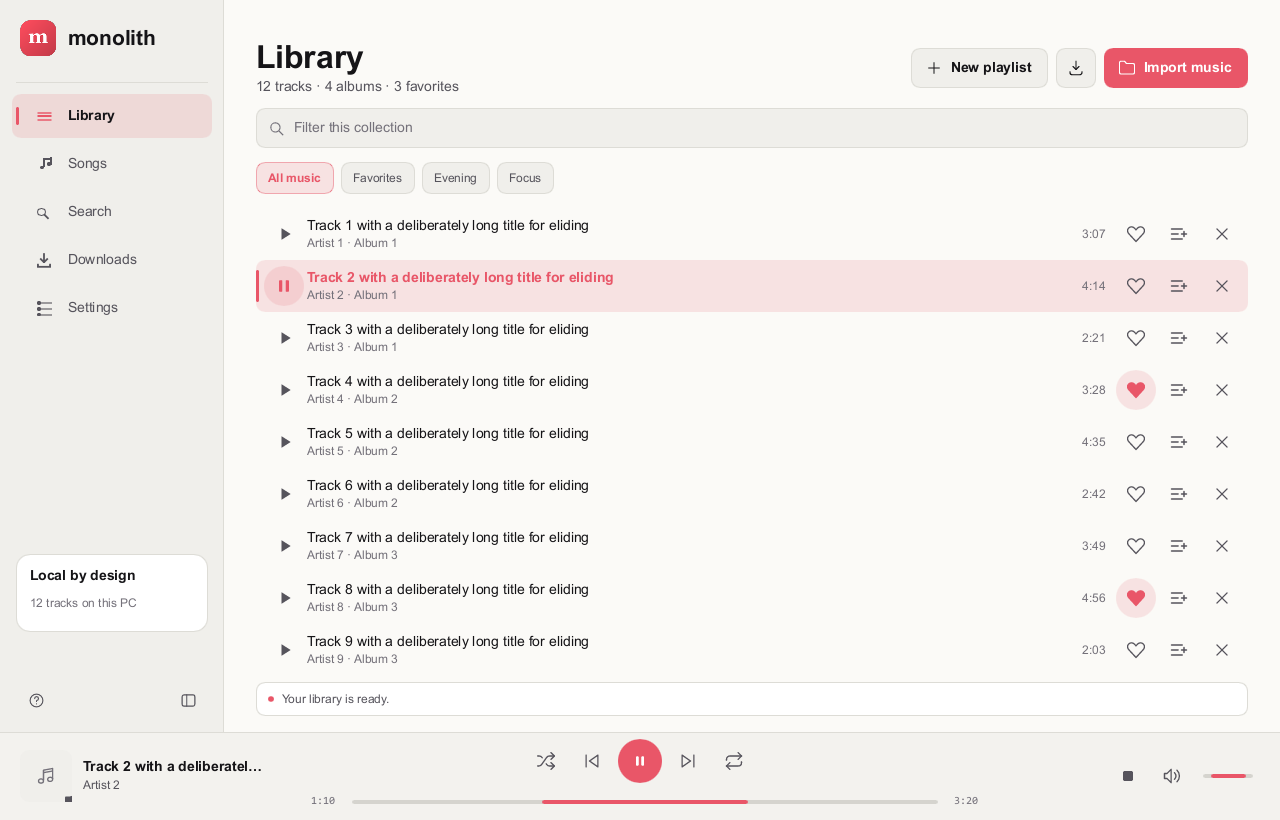
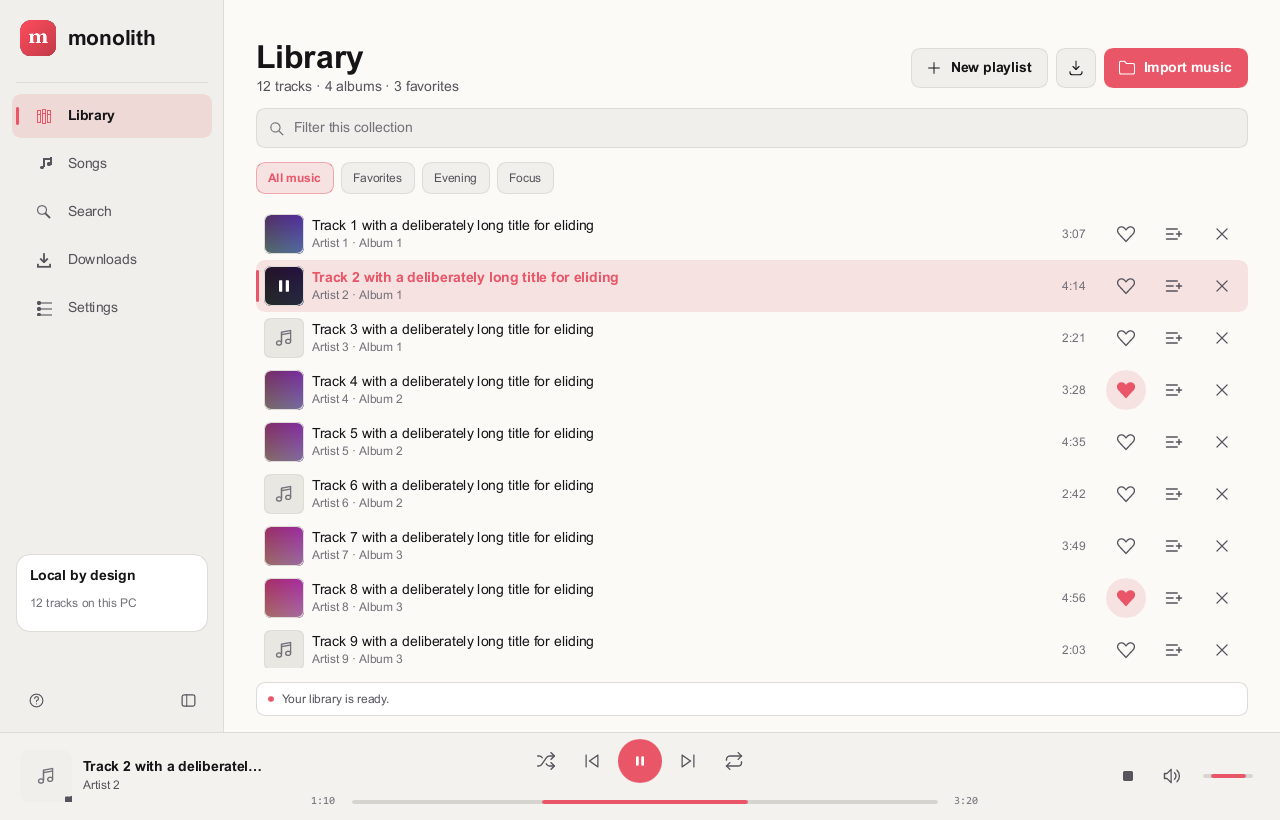
Show local song artwork and refine Library and Search navigation

diff --git a/src/controller.rs b/src/controller.rs
@@ -4,7 +4,7 @@ use monolith_desktop::{
     transfer,
 };
 use rodio::{Decoder, OutputStream, OutputStreamBuilder, Sink, Source};
-use slint::{ModelRc, VecModel};
+use slint::{Model, ModelRc, VecModel};
 use std::{
     hash::BuildHasher,
     path::PathBuf,
@@ -28,6 +28,7 @@ pub enum Command {
     /// 0 title, 1 artist, 2 album, 3 recently added.
     Sort(i32),
     Play(i64),
+    Thumbnail(i64),
     Toggle,
     Resume,
     Pause,
@@ -79,6 +80,7 @@ struct Worker {
     /// Decoded artwork, keyed by track id, most-recently-used last.
     art: std::collections::HashMap<i64, (Art, Art)>,
     art_order: std::collections::VecDeque<i64>,
+    thumbnails: std::collections::VecDeque<(i64, Option<Art>)>,
     queue: Vec<i64>,
     current: Option<i64>,
     position: f64,
@@ -94,10 +96,55 @@ struct Worker {
 const ART_CACHE_LIMIT: usize = 8;
 
 impl Worker {
+    /// Virtualized rows request 64px covers as they appear. Cache both hits and
+    /// misses; evict UI buffers too, so scrolling cannot accumulate decoded art.
+    fn thumbnail(&mut self, id: i64) {
+        if !self.visible.contains(&id) {
+            return;
+        }
+        let cached = self
+            .thumbnails
+            .iter()
+            .position(|(key, _)| *key == id)
+            .and_then(|index| self.thumbnails.remove(index));
+        let art = cached.map(|(_, art)| art).unwrap_or_else(|| {
+            let track = self.all.iter().find(|track| track.id == id)?;
+            row_cover(&track.path)
+        });
+        self.thumbnails.push_back((id, art.clone()));
+        let evicted = if self.thumbnails.len() > 128 {
+            self.thumbnails.pop_front().map(|(key, _)| key)
+        } else {
+            None
+        };
+        update(&self.ui, move |ui| {
+            let rows = ui.get_tracks();
+            for index in 0..rows.row_count() {
+                let Some(mut row) = rows.row_data(index) else {
+                    continue;
+                };
+                if Some(row.id as i64) == evicted {
+                    row.thumbnail = slint::Image::default();
+                    rows.set_row_data(index, row);
+                } else if row.id as i64 == id {
+                    row.thumbnail = art
+                        .as_ref()
+                        .map(|art| {
+                            slint::Image::from_rgba8(slint::SharedPixelBuffer::clone_from_slice(
+                                &art.bytes, art.width, art.height,
+                            ))
+                        })
+                        .unwrap_or_default();
+                    rows.set_row_data(index, row);
+                }
+            }
+        });
+    }
     /// Reloads library rows and playlist metadata from disk. Everything else
     /// filters from the in-memory copy.
     fn reload(&mut self) -> Result<()> {
         self.all = self.db.tracks(0)?;
+        self.thumbnails.clear();
         self.playlists = self.db.playlists()?;
         self.members.clear();
         for (id, _) in &self.playlists {
@@ -203,6 +250,7 @@ impl Worker {
                         detail: format!("{} · {}", t.artist, t.album).into(),
                         duration: library::clock(t.seconds).into(),
                         favorite: t.favorite,
+                        ..Default::default()
                     })
                     .collect::<Vec<_>>(),
             )));
@@ -495,6 +543,7 @@ impl Worker {
                     self.apply_filter()?;
                 }
             }
+            Command::Thumbnail(id) => self.thumbnail(id),
             Command::Play(id) => {
                 self.queue = self.visible.clone();
                 if self.shuffle {
@@ -716,6 +765,7 @@ pub fn spawn(
             filter_due: None,
             art: std::collections::HashMap::new(),
             art_order: std::collections::VecDeque::new(),
+            thumbnails: std::collections::VecDeque::new(),
             queue,
             current,
             position,
@@ -995,7 +1045,7 @@ fn rounded_alpha(image: &mut image::RgbaImage, radius: u32) {
 const BAR_RADIUS_RATIO: f32 = 10.0 / 52.0;
 const EXPANDED_RADIUS_RATIO: f32 = 12.0 / 370.0;
 
-fn cover(path: &str) -> Option<(Art, Art)> {
+fn decode_cover(path: &str) -> Option<image::RgbaImage> {
     use lofty::file::TaggedFileExt;
     const MAX_ART_BYTES: usize = 8 * 1024 * 1024;
     let source = std::path::Path::new(path);
@@ -1009,7 +1059,13 @@ fn cover(path: &str) -> Option<(Art, Art)> {
         // the file itself carries no embedded artwork.
         _ => {
             let image = library::sidecar_image(source)?;
-            let data = std::fs::read(image).ok()?;
+            use std::io::Read;
+            let mut data = Vec::new();
+            std::fs::File::open(image)
+                .ok()?
+                .take((MAX_ART_BYTES + 1) as u64)
+                .read_to_end(&mut data)
+                .ok()?;
             if data.len() > MAX_ART_BYTES {
                 return None;
             }
@@ -1028,7 +1084,33 @@ fn cover(path: &str) -> Option<(Art, Art)> {
     limits.max_image_height = Some(1600);
     limits.max_alloc = Some(20 * 1024 * 1024);
     reader.limits(limits);
-    let decoded = reader.decode().ok()?.thumbnail(384, 384).into_rgba8();
+    Some(reader.decode().ok()?.into_rgba8())
+}
+
+fn row_cover(path: &str) -> Option<Art> {
+    let decoded = decode_cover(path)?;
+    let span = decoded.width().min(decoded.height());
+    let square = image::imageops::crop_imm(
+        &decoded,
+        (decoded.width() - span) / 2,
+        (decoded.height() - span) / 2,
+        span,
+        span,
+    );
+    let mut tile = image::imageops::resize(
+        &square.to_image(),
+        64,
+        64,
+        image::imageops::FilterType::Triangle,
+    );
+    rounded_alpha(&mut tile, 11);
+    Some(Art::from(tile))
+}
+
+fn cover(path: &str) -> Option<(Art, Art)> {
+    let decoded = image::DynamicImage::ImageRgba8(decode_cover(path)?)
+        .thumbnail(384, 384)
+        .into_rgba8();
     let span = decoded.width().min(decoded.height());
     let mut bar = decoded.clone();
     rounded_alpha(&mut bar, (span as f32 * BAR_RADIUS_RATIO).round() as u32);
@@ -1043,6 +1125,44 @@ fn cover(path: &str) -> Option<(Art, Art)> {
 #[cfg(test)]
 mod tests {
     use super::*;
+
+    #[test]
+    fn row_cover_bounds_sidecars_and_handles_missing_or_bad_images() {
+        let dir = tempfile::tempdir().unwrap();
+        let audio = dir.path().join("track.wav");
+        let path = audio.to_str().unwrap();
+        assert!(row_cover(path).is_none());
+        let sidecar = audio.with_extension("png");
+        let mut picture = image::RgbaImage::from_pixel(160, 80, image::Rgba([0, 0, 255, 255]));
+        for y in 0..80 {
+            for x in 40..120 {
+                picture.put_pixel(x, y, image::Rgba([255, 0, 0, 255]));
+            }
+        }
+        picture.save(&sidecar).unwrap();
+        let tile = row_cover(path).unwrap();
+        assert_eq!(
+            (tile.width, tile.height, tile.bytes.len()),
+            (64, 64, 64 * 64 * 4)
+        );
+        assert_eq!(tile.bytes[3], 0, "rounded corner");
+        let center = (32 * 64 + 32) * 4;
+        assert_eq!(
+            &tile.bytes[center..center + 4],
+            &[255, 0, 0, 255],
+            "center crop"
+        );
+        std::fs::write(&sidecar, b"not an image").unwrap();
+        assert!(row_cover(path).is_none());
+        std::fs::File::create(&sidecar)
+            .unwrap()
+            .set_len(8 * 1024 * 1024 + 1)
+            .unwrap();
+        assert!(
+            row_cover(path).is_none(),
+            "oversized sidecar must be rejected"
+        );
+    }
 
     /// Guards the "rounded corners" requirement. Slint only clips to
     /// rectangular bounds, so a regression here silently renders square

diff --git a/examples/workflow_check.rs b/examples/workflow_check.rs
@@ -48,6 +48,12 @@ fn main() -> Result<()> {
         Arc::new(AtomicBool::new(false)),
     );
     tx.send(Command::Import(vec![path.clone(), path.clone()]))?;
+    image::RgbaImage::from_pixel(120, 80, image::Rgba([210, 95, 70, 255]))
+        .save(path.with_extension("png"))?;
+    let thumbnails = tx.clone();
+    app.on_request_thumbnail(move |id| {
+        let _ = thumbnails.send(Command::Thumbnail(id as i64));
+    });
     app.show()?;
     let phase = Rc::new(Cell::new(0));
     let tick = phase.clone();
@@ -72,7 +78,12 @@ fn main() -> Result<()> {
                 ui.get_status()
             );
             match tick.get() {
-                0 if ui.get_total_tracks() == 1 => {
+                0 if ui.get_total_tracks() == 1
+                    && ui
+                        .get_tracks()
+                        .row_data(0)
+                        .is_some_and(|row| row.thumbnail.size().width == 64) =>
+                {
                     assert_eq!(ui.get_tracks().row_count(), 1);
                     let id = ui.get_tracks().row_data(0).unwrap().id;
                     sender.send(Command::Play(id as i64)).unwrap();
@@ -168,7 +179,7 @@ fn main() -> Result<()> {
     // All playback file handles must have been released at stop/shutdown.
     std::fs::rename(&path, dir.path().join("released.wav"))?;
     println!(
-        "PASS: duplicate import, metadata, play/pause/resume/seek/stop, volume, favorite, playlist, search, next/end/repeat, persistence, file release."
+        "PASS: row artwork from sidecar, duplicate import, metadata, play/pause/resume/seek/stop, volume, favorite, playlist, search, next/end/repeat, persistence, file release."
     );
     Ok(())
 }

diff --git a/examples/visual_check.rs b/examples/visual_check.rs
@@ -77,6 +77,26 @@ fn main() -> Result<(), Box<dyn std::error::Error>> {
                 detail: format!("Artist {id} · Album {}", (id + 2) / 3).into(),
                 duration: format!("{}:{:02}", 2 + id % 3, (id * 7) % 60).into(),
                 favorite: id % 4 == 0,
+                thumbnail: if id % 3 == 0 {
+                    slint::Image::default()
+                } else {
+                    // Synthetic cover swatches; never presented as fetched artwork.
+                    let mut pixels = slint::SharedPixelBuffer::<slint::Rgba8Pixel>::new(64, 64);
+                    for (i, pixel) in pixels.make_mut_slice().iter_mut().enumerate() {
+                        let x = i % 64;
+                        let y = i / 64;
+                        let dx = (10.5 - x.min(63 - x) as f32).max(0.);
+                        let dy = (10.5 - y.min(63 - y) as f32).max(0.);
+                        let alpha = ((11. - (dx * dx + dy * dy).sqrt()).clamp(0., 1.) * 255.) as u8;
+                        *pixel = slint::Rgba8Pixel::new(
+                            (70 + id * 12) as u8,
+                            (45 + y) as u8,
+                            (100 + x) as u8,
+                            alpha,
+                        );
+                    }
+                    slint::Image::from_rgba8(pixels)
+                },
             })
             .collect();
         ui.set_tracks(ModelRc::from(Rc::new(VecModel::from(rows))));

diff --git a/src/main.rs b/src/main.rs
@@ -204,6 +204,7 @@ fn run() -> Result<()> {
     bind!(on_seek, Seek, f32);
     bind!(on_volume_changed, Volume, f32);
     bind!(on_play_track, Play, i64);
+    bind!(on_request_thumbnail, Thumbnail, i64);
     bind!(on_favorite_track, Favorite, i64);
     bind!(on_remove_track, Remove, i64);
     bind!(on_remove_from_playlist, RemoveFromPlaylist, i64);

diff --git a/examples/controls_check.rs b/examples/controls_check.rs
@@ -36,7 +36,7 @@ fn capture(ui: &ControlsReview, output: &str) {
         );
     }
     for phase in 0..5 {
-        let index = (193 * 560 + 70 + phase * 101) * 4;
+        let index = (193 * 560 + 73 + phase * 100) * 4;
         let rgba = &pixels.as_bytes()[index..index + 4];
         assert!(
             rgba[0] as u16 > rgba[1] as u16 + 50,

diff --git a/README.md b/README.md
@@ -28,7 +28,9 @@ live locally in SQLite. No account, cloud sync, or telemetry service.
 | ![Downloads with aligned status and audio format controls](docs/img/downloads.png) | ![Monolith Windows setup wizard](docs/img/installer.png) |
 
 <details>
-<summary><strong>Compact windows and light appearance</strong></summary>
+<summary><strong>Search, compact windows and light appearance</strong></summary>
+
+<img src="docs/img/search.png" width="1000" alt="Search results with local artwork thumbnails and a circular magnifier navigation icon">
 
 | Compact navigation | Light appearance |
 | --- | --- |
@@ -47,7 +49,7 @@ are not evidence of audio playback. Linux appearance has not been captured yet.
 | **Automatic imports** | New audio in Music/Monolith and your selected save folder appears while the app is open. Nested folders work too. |
 | **Library and playlists** | Favorites, custom playlists, and M3U/PLS imports. Removing a library entry leaves the original file alone. |
 | **Songs and search** | Sort by title, artist, album or added order. Local search responds after a short typing debounce. |
-| **Playback** | Seek, volume, shuffle and repeat, plus a compact bar and expanded player. |
+| **Playback** | Song artwork in track rows, hover/focus play controls, seek, volume, shuffle and repeat, plus a compact bar and expanded player. |
 | **Downloads** | Explicit transfers through a user-selected yt-dlp executable. Real progress, cancellation and history; tools are not bundled. |
 | **Appearance** | Dark, light and system modes, animated icons, visible keyboard focus and adaptive navigation. Windows motion preference is respected. |
 | **Windows integration** | Media controls, tray support, optional acrylic, and a per-user installer. |
@@ -123,7 +125,9 @@ flowchart TB
 
 Filesystem work and metadata parsing run off the UI thread. Transfers use argument
 arrays, bounded output handling, staging files and collision-safe publication.
-Artwork decoding and caching are bounded. The Linux build uses desktop portal file
+Track thumbnails use embedded artwork or a matching local JPG/PNG/WebP sidecar;
+files without artwork show a music-note tile. Thumbnails are loaded on demand
+and capped at 128 small decoded covers. Artwork decoding and caching are bounded. The Linux build uses desktop portal file
 dialogs; Windows integration is conditionally compiled.
 
 ## Build and check
